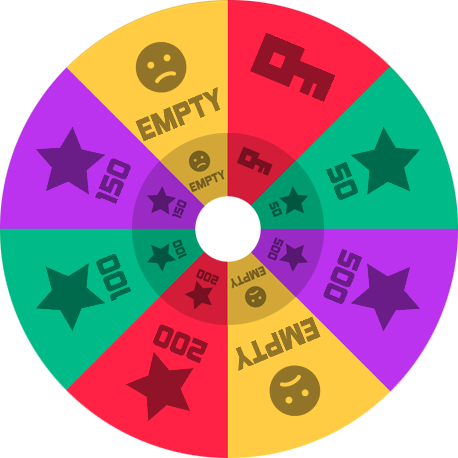
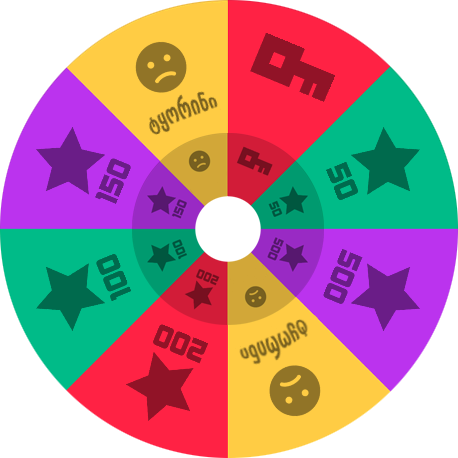
change

diff --git a/src/objects/wheel.ts b/src/objects/wheel.ts
@@ -5,12 +5,12 @@ export class Wheel {
     public canSpin: boolean;
     public slices = 8;
     public rotationTime = 3000;
-    public slicePrizes = ["ბუბლი ჯუჯა!!!", "50 ნადუღი", "500 STARS", "ტყორინი", "200 ბუბლიდონა", "100 ნადუღი", "150 STARS", "ტყორინი"];
+    public slicePrizes = ["ბუბლი ჯუჯა!!!", "50 ნადუღი", "500 მჰ", "ტყორინი", "200 ბუბლიდონა", "100 ნადუღი", "150 მჰ", "ტყორინი"];
     public prizeText: Phaser.GameObjects.Text;
 
     constructor(scene: GameScene) {
         this.scene = scene;
-        this.prizeText = this.scene.add.text(this.scene.sys.canvas.width / 5, this.scene.sys.canvas.height - 35, "დაატრიალე ბედის ბორბალი", {
+        this.prizeText = this.scene.add.text(this.scene.sys.canvas.width / 5, this.scene.sys.canvas.height - 40, "დაატრიალე ბედის ბორბალი", {
             font: "bold 24px Arial",
             align: "center",
             color: "black"
@@ -81,7 +81,7 @@ export class Wheel {
                 scene.sound.play('nadugi');
                 break;
             case 2:
-                console.log('222');
+                scene.sound.play('mh');
                 break;
             case 3:
                 scene.sound.play('tyorini');
@@ -93,7 +93,7 @@ export class Wheel {
                 scene.sound.play('nadugi');
                 break;
             case 6:
-                console.log('666');
+                scene.sound.play('mh');
                 break;
             case 7:
                 scene.sound.play('tyorini');

diff --git a/src/scenes/bootScene.ts b/src/scenes/bootScene.ts
@@ -12,6 +12,7 @@ export class BootScene extends Phaser.Scene {
         this.load.audio('tyorini','./src/assets/sounds/tyorini.mp3');
         this.load.audio('nadugi','./src/assets/sounds/nadugi.mp3');
         this.load.audio('bublijuja','./src/assets/sounds/bublijuja.mp3');
+        this.load.audio('mh','./src/assets/sounds/mh.mp3');
     }
 
     update(): void {
